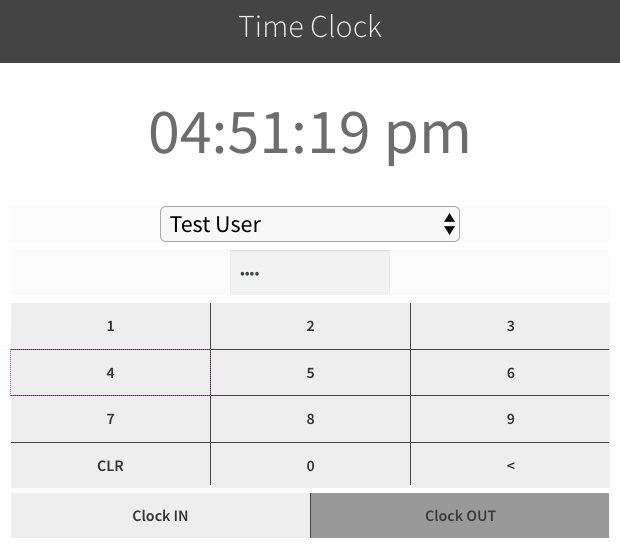
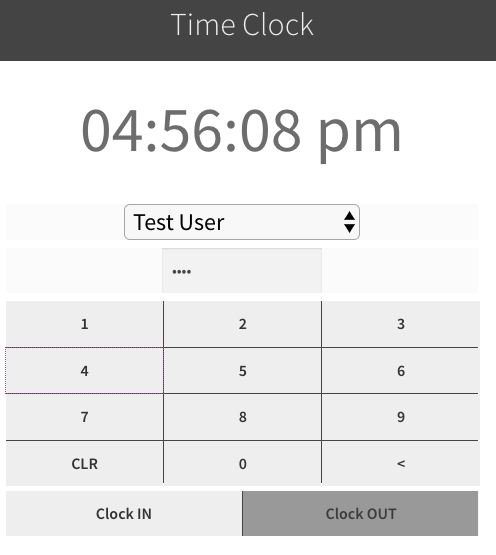
Update unauthenticated screenshot

diff --git a/README.md b/README.md
@@ -3,8 +3,6 @@ Time Logging for Team activities
 
 Track your team's time spent working or during activities, with a timeclock mode for your shop or facility, and the ability to clock in or out from their own devices when doing off-site work.
 
-![Authenticated Time Clock with PIN keypad](docs/Time_Clock-Authenticated.png)
-
 ![Unauthenticated Time Clock with PIN keypad](docs/Time_Clock-Unauthenticated.png)
 
 ## Plugin for WordPress
